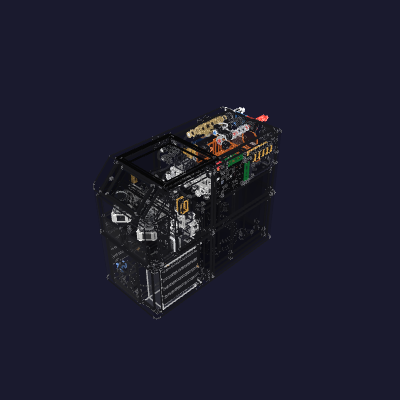
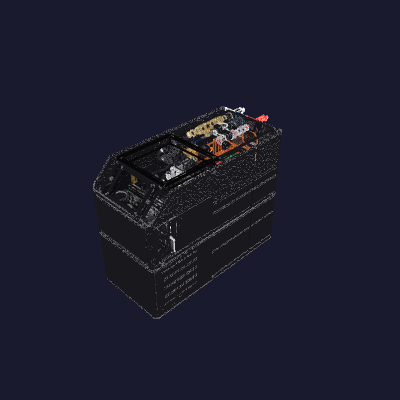
the cap grip keeps one wall and gives the hand the rest
The lower flank pocket keeps the enclosure's normal wall around each pump head instead of inheriting the deck's doubled backing. Its usable depth grows from 3.149 to 6.149 mm without moving the pumps, the ledge, the rail-bearing sill, or the cartridge envelope.

The service motion now names the recessed flank grip and its raked pulling ledge. Re-derived enclosure figures, assembly record, printed mass, BOM totals, and machine time follow the regenerated solid.

diff --git a/hardware/printed-parts/enclosure/enclosure/enclosure.py b/hardware/printed-parts/enclosure/enclosure/enclosure.py
@@ -1428,7 +1428,8 @@ cap_screw_off = 18.0         # each screw off the lane's own mid-depth, fore and
 grip_run = 24.0              # a grip's opening fore and aft — a finger's width and its curl
 grip_sill = 7.0              # block left under a grip, over the rail its edge strip bears on
 grip_head = 8.0              # and over it, under the ceiling the motor cans open through
-grip_back = 2.0 * wall       # section left between a grip's own floor and the pump's room
+grip_back = 2.0 * wall       # deck section between the grip floor and the pump's room
+grip_cap_back = wall         # cap section between its grip floor and the pump head's room
 grip_aft = wall              # and between its aft wall and the face that lands on the steel
 # THE LEDGE IS RAKED IN PLAN, ONE IN FIVE. It stands further FORE the further INBOARD it
 # runs, so the normal it presents to a fingertip carries a fifth of itself INBOARD: the
@@ -4500,11 +4501,13 @@ def _grip_storeys(pump_trays, z_floor, z_top):
             (crown, z_top, station + _tray.can_half + cap_pump_air))
 
 
-def _grip_back(edge, zf, zc, storeys):
+def _grip_back(edge, zf, zc, storeys, back_t):
     """The polyline a grip's own BACK stands on, (x, z) from the sill up, on the +X flank.
 
-    EACH STOREY'S FLOOR IS ONE `grip_back` OFF THE ROOM THE PUMP TAKES OVER IT, so the pocket
-    is as deep as that height allows and no deeper.
+    EACH STOREY'S FLOOR IS ONE `back_t` OFF THE ROOM THE PUMP TAKES OVER IT, so the pocket is
+    as deep as that piece's section allows and no deeper. The deck keeps `grip_back`; the cap
+    keeps `grip_cap_back`, because the pocket floor is an ordinary wall round the head rather
+    than the rail-bearing deck strip.
 
     AND IT WALKS OUT TO IT AT `relief_chamfer`. What stands between the pocket and the pump is
     a rib, and over a crown that rib moves inboard by the whole octagon-to-bore step. Ramped,
@@ -4515,7 +4518,7 @@ def _grip_back(edge, zf, zc, storeys):
         z_start, z_end = max(z0, zf), min(z1, zc)
         if z_end <= z_start:
             continue
-        back = x_room + grip_back
+        back = x_room + back_t
         if prev is None:
             pts.append((back, z_start))
         elif back <= prev:
@@ -4537,7 +4540,7 @@ def _grip_back(edge, zf, zc, storeys):
     return pts
 
 
-def _grip_section(edge, zf, zc, storeys, roofed):
+def _grip_section(edge, zf, zc, storeys, roofed, back_t):
     """One grip's own (x, z) section on the +X flank: the sill, the back (`_grip_back`), the
     ceiling, and the mouth.
 
@@ -4554,7 +4557,7 @@ def _grip_section(edge, zf, zc, storeys, roofed):
     The section runs one millimetre past the flank at both ends, so the cut opens through the
     face rather than landing on it."""
     over = 1.0
-    back = _grip_back(edge, zf, zc, storeys)
+    back = _grip_back(edge, zf, zc, storeys, back_t)
     x_top, z_top = back[-1]
     if not roofed:
         return ([(edge + over, zf)] + back
@@ -4570,7 +4573,7 @@ def _grip_section(edge, zf, zc, storeys, roofed):
 
 
 def _grip_bands(bay, pump_trays):
-    """The band each piece's own share of the pocket is struck in, as (zf, zc, roofed).
+    """Each piece's share of the pocket as (zf, zc, roofed, back_t).
 
     ONE POCKET, TWO PIECES, AND THE BLOCK BETWEEN THEM IS THE DECK'S BEARING STRIP. The deck's
     edge strips ride the bay's rails in the tray plate's own band over `cap_split_z`, so
@@ -4579,11 +4582,12 @@ def _grip_bands(bay, pump_trays):
     wall closes back in and a hand reaching into the opening cannot get to the piece at all.
 
     THE CAP'S BAND ENDS ON THE SPLIT, WHICH IS THE CAP'S OWN TOP FACE, so it takes no roof.
-    The deck's ends one `grip_head` under the ceiling the motor cans open through, with the
-    piece standing on above it, and takes one."""
+    Its floor keeps one ordinary `wall` round the pump head. The deck's ends one `grip_head`
+    under the ceiling the motor cans open through, with the piece standing on above it, and
+    takes one; its floor keeps the doubled section that continues the bearing strip."""
     split = cap_split_z(pump_trays)
-    return ((bay_storey_z(bay)[0], split, False),
-            (split + grip_sill, bay[2] - face_reveal - grip_head, True))
+    return ((bay_storey_z(bay)[0], split, False, grip_cap_back),
+            (split + grip_sill, bay[2] - face_reveal - grip_head, True, grip_back))
 
 
 def _flank_grip(bay, pump_trays, plate, band):
@@ -4607,14 +4611,14 @@ def _flank_grip(bay, pump_trays, plate, band):
     WHAT IT HANDS BACK IS CUT AND NEVER FUSED. A grip is depth taken out of the block, so
     nothing of either piece moves fore of the plane its face already stands on — the plane the
     bench reads flush for four barb tubes home in their collets."""
-    zf, zc, roofed = band
+    zf, zc, roofed, back_t = band
     over = 1.0
     edge = _cap_x_span(bay)[1]
     storeys = _grip_storeys(pump_trays, bay_floor_z(pump_trays)[1],
                             bay[2] - face_reveal)
     y1 = _block_aft(plate) - grip_aft
     y0 = y1 - grip_run
-    section = _grip_section(edge, zf, zc, storeys, roofed)
+    section = _grip_section(edge, zf, zc, storeys, roofed, back_t)
     x_deep = min(x for x, _z in section) - over
     reach = edge - x_deep
     if y0 - grip_rake * reach <= pump_relief_floor:
@@ -4648,14 +4652,16 @@ def grip_figures(box):
     y1 = _block_aft(plate) - grip_aft
     y0 = y1 - grip_run
     deep = edge - (storeys[-1][2] + grip_back)
+    cap_deep = edge - (storeys[0][2] + grip_cap_back)
     return {
         "GRIP_RISE": f"{deck_band[1] - deck_band[0]:.4g} mm",
         "GRIP_CAP_RISE": f"{cap_band[1] - cap_band[0]:.4g} mm",
         "GRIP_RUN": f"{grip_run:.4g} mm",
         "GRIP_DEEP": f"{deep:.4g} mm",
         "GRIP_SHALLOW": f"{edge - (storeys[1][2] + grip_back):.4g} mm",
-        "GRIP_CAP_DEEP": f"{edge - (storeys[0][2] + grip_back):.4g} mm",
+        "GRIP_CAP_DEEP": f"{cap_deep:.4g} mm",
         "GRIP_BACK": f"{grip_back:.4g} mm",
+        "GRIP_CAP_BACK": f"{grip_cap_back:.4g} mm",
         "GRIP_LEDGE": f"{y0:.4g} mm",
         "GRIP_TRAVEL": f"{y0 - (box.inner[2] + _column_along()):.4g} mm",
         "GRIP_RAKE": f"1 in {1.0 / grip_rake:.4g}",
@@ -5098,9 +5104,9 @@ def build_pump_cap(box, halves_cache=None):
 
     AND ITS TWO FLANKS CARRY THE LOWER BAND OF THE HAND'S OWN POCKET (`_flank_grip`), on the
     same ledge and the same aft wall the deck's band stands on. What the head leaves out there
-    is nine millimetres of flank and the pocket takes what `grip_back` does not: the piece
-    comes out screwed to the cartridge and a hand pulling the assembly finds relief at both
-    storeys. Printed on its Z− face, the same pose the cartridge takes."""
+    is nine millimetres of flank and the pocket keeps one `grip_cap_back` wall round the head:
+    the piece comes out screwed to the cartridge and a hand pulling the assembly finds relief
+    at both storeys. Printed on its Z− face, the same pose the cartridge takes."""
     inner, plate = box.inner, box.collet_plate
     solid = _cartridge_gross(box, halves_cache).intersect(_cap_room(box))
     split = cap_split_z(box.pump_trays)

diff --git a/hardware/ledger/bom.md b/hardware/ledger/bom.md
@@ -138,9 +138,9 @@ The wetted surface is the print itself, qualified by [`wetted-surface-test.md`](
 | Flavor reservoir cap — left | 1 | PETG (translucent) | 0.058 | $0.65 <!--@printed--> |
 | Flavor reservoir cap — right | 1 | PETG (translucent) | 0.058 | $0.65 <!--@printed--> |
 | Enclosure — front bottom + front top (two quadrants) | 1 set | PETG | 2.760 | $30.91 <!--@printed--> |
-| Enclosure — pump cartridge + cap (one set) | 1 set | PETG | 1.001 | $11.21 <!--@printed--> |
+| Enclosure — pump cartridge + cap (one set) | 1 set | PETG | 0.993 | $11.13 <!--@printed--> |
 | Carbonator reed bridge | 1 | PETG | 0.008 | $0.09 <!--@printed--> |
-| Enclosure — back bottom + back top (two quadrants) | 1 set | PETG | 2.348 | $26.30 <!--@printed--> |
+| Enclosure — back bottom + back top (two quadrants) | 1 set | PETG | 2.360 | $26.43 <!--@printed--> |
 | Enclosure — ceiling panel | 1 | PETG | 0.148 | $1.66 <!--@printed--> |
 | Display cover plate | 1 | PETG | 0.028 | $0.31 <!--@printed--> |
 | Port ring — one per rear-wall crossing | 5 | PETG (blue, white, red, black ×2) | 0.012 | $0.14 <!--@printed--> |
@@ -150,9 +150,9 @@ The wetted surface is the print itself, qualified by [`wetted-surface-test.md`](
 | Fuse clamp | 1 | PETG | 0.007 | $0.08 <!--@printed--> |
 | Faucet touch-flo shell (3-piece: bottom + middle + top) | 1 | PET-CF | 0.150 | $5.92 <!--@printed--> |
 | Faucet mounting plate | 1 | PET-CF | 0.013 | $0.53 <!--@printed--> |
-| **Printed parts total** | | | **~9.43** | **[$110.19](BOM_SEC7)** |
+| **Printed parts total** | | | **~9.43** | **[$110.24](BOM_SEC7)** |
 
-By material: PETG ≈ 9.26 kg / $103.73 — of which the four translucent reservoir parts are ≈ 0.88 kg / $9.85 — and PET-CF ≈ 0.16 kg / $6.44.
+By material: PETG ≈ 9.27 kg / $103.78 — of which the four translucent reservoir parts are ≈ 0.88 kg / $9.85 — and PET-CF ≈ 0.16 kg / $6.44.
 
 Each cap lid ships bolted to its cap. It is the pour clamp at [`cold-core.md`](/hardware/assembly/cold-core.md) step 3 and stays: the six M3 × 25 SHCS per face pass through lid and cap into the shell-face inserts, the CO2 line enters through the top lid's tube hole, and the top lid's outer face is the plane the whole water deck and the power column stand on. The top lid also carries the [3](CAP_CRADLES) valve cradles — four bosses printed into that face per valve that stands on it (`_cold_core_interface.cap_cradles`, [`valve-seat/`](/hardware/printed-parts/valve-seat/)) — which is why it outweighs the bottom one. The cradles are a press fit and take no screw. The top cap under it carries the [4](DECK_INSERTS) deck-mount columns, which are the cap's rotation key and the water pump's own bolt pattern: its bracket bolts down into all [4](PUMP_MOUNT_SCREWS).
 
@@ -296,7 +296,7 @@ Per-appliance tools that ship in the install kit so the field installer can cut 
 | 4. CO2 subsystem | [$96.56](BOM_SEC4) |
 | 5. Refrigeration | [$142.25](BOM_SEC5) |
 | 6. Cold core insulation | [$15.62](BOM_SEC6) |
-| 7. Printed parts (PETG + PET-CF) | [$110.19](BOM_SEC7) |
+| 7. Printed parts (PETG + PET-CF) | [$110.24](BOM_SEC7) |
 | 8. Flavor subsystem | [$207.33](BOM_SEC8) |
 | 9. Dispensing | [$60.29](BOM_SEC9) |
 | 10. UI | [$0.00](BOM_SEC10) |
@@ -304,7 +304,7 @@ Per-appliance tools that ship in the install kit so the field installer can cut 
 | 12. Level sensing | [$37.50](BOM_SEC12) |
 | 13. Mechanical attach hardware + reservoir-cap vent filter | [$12.15](BOM_SEC13) |
 | 14. Install kit | [$4.29](BOM_SEC14) |
-| **Total** | **[$1,324.68](BOM_GRAND)** |
+| **Total** | **[$1,324.73](BOM_GRAND)** |
 
 ## External / user-supplied (not shipped)
 

diff --git a/hardware/printed-parts/enclosure/enclosure/README.md b/hardware/printed-parts/enclosure/enclosure/README.md
@@ -818,7 +818,7 @@ cartridge is home. `pump-cap-stops-on-plate` reads the area standing against the
 and that the kiss itself is air.
 
 **Its two flanks carry the lower band of the hand's own pocket**, on the same ledge and
-the same aft wall the cartridge's band stands on — [3.149 mm](GRIP_CAP_DEEP) of relief
+the same aft wall the cartridge's band stands on — [6.149 mm](GRIP_CAP_DEEP) of relief
 over [40.65 mm](GRIP_CAP_RISE) of height, which is what the head leaves out there. The
 piece comes out screwed to the cartridge and a hand on the assembly finds relief at both
 storeys; the whole figure is under [Pump trays](#pump-trays) below.
@@ -989,14 +989,15 @@ wall in both, so the two pieces a hand takes out together present it one face.
 
 **It goes as deep as the pump leaves it, storey by storey.** Under the split the head's
 own square reaches `pump_tray.head_half` and one `cap_pump_air` off the axis, and the
-cap's pocket is [3.149 mm](GRIP_CAP_DEEP) — nine millimetres of flank stand out there and
+cap's pocket is [6.149 mm](GRIP_CAP_DEEP) — nine millimetres of flank stand out there and
 that is what they come to. Over the split the boss's octagon reaches `boss_half` and the
 pocket is [8.354 mm](GRIP_SHALLOW); over the crown the bore reaches `can_half` and one
-`cap_pump_air`, and it is [15.95 mm](GRIP_DEEP). One [6 mm](GRIP_BACK) rib stands between
-a pocket's floor and the pump's room at every one of the three. Between the boss and the
-can it **walks out at `relief_chamfer`**: over a crown that rib moves inboard by the whole
-octagon-to-bore step, and ramped, the first layer over the crown still lands on the rim
-the layer under it keeps.
+`cap_pump_air`, and it is [15.95 mm](GRIP_DEEP). The deck keeps a [6 mm](GRIP_BACK) rib
+between its pocket floor and the boss/can room. The cap keeps one [3 mm](GRIP_CAP_BACK)
+wall between its pocket floor and the head room, leaving the rest of that flank to the hand.
+Between the boss and the can the deck pocket **walks out at `relief_chamfer`**: over a crown
+that rib moves inboard by the whole octagon-to-bore step, and ramped, the first layer over
+the crown still lands on the rim the layer under it keeps.
 
 **The ledge is raked in plan, [1 in 5](GRIP_RAKE)** (`grip_rake`) — standing further fore
 the further inboard it runs, [3.191 mm](GRIP_RAKE_FORE) of fall across the deepest pocket.

diff --git a/hardware/ledger/machine-time.md b/hardware/ledger/machine-time.md
@@ -23,11 +23,11 @@ Masses come from bom.md §7, which is geometry-derived and commit-gated, so a pr
 | Group | Parts | Rate | Mass | Hours |
 |---|---|---|---:|---:|
 | Bulk PETG, 0.8 nozzle | Cold-core shell, four foam-cap pieces | [10.8](MT_RATE_BULK) h/kg — **measured** | [1.963](MT_KG_BULK) kg | [21.2](MT_H_BULK) |
-| Enclosure exterior PETG, 0.4 High Flow | The four quadrants, the pump cartridge and its cap — the show surfaces, printed at the finish the box is judged on ([enclosure/print-log.md](/hardware/printed-parts/enclosure/enclosure/print-log.md)) | [9.1](MT_RATE_EXT) h/kg — **measured** | [6.257](MT_KG_EXT) kg | [56.9](MT_H_EXT) |
+| Enclosure exterior PETG, 0.4 High Flow | The four quadrants, the pump cartridge and its cap — the show surfaces, printed at the finish the box is judged on ([enclosure/print-log.md](/hardware/printed-parts/enclosure/enclosure/print-log.md)) | [9.1](MT_RATE_EXT) h/kg — **measured** | [6.261](MT_KG_EXT) kg | [57.0](MT_H_EXT) |
 | Watertight translucent PETG, 0.6 nozzle | Both reservoir bodies + caps — 3 mm walls as 5 × 0.60 mm beads, Arachne, for a syrup-tight wall ([watertight-petg.md](/hardware/printed-parts/cold-core/reservoir/watertight-petg.md)); the nozzle is the one all three logged runs were made on ([reservoir/print-log.md](/hardware/printed-parts/cold-core/reservoir/print-log.md)) | [22](MT_RATE_TIGHT) h/kg — est., ~½ the bulk volumetric rate | [0.880](MT_KG_TIGHT) kg | [19.4](MT_H_TIGHT) |
 | Small PETG parts | Drip pan, plug stack, PRV shroud, reed bridge, fuse clamp | [30](MT_RATE_SMALL) h/kg — est., travel and layer-change overhead dominate a small part | [0.161](MT_KG_SMALL) kg | [4.8](MT_H_SMALL) |
 | PET-CF, 0.4 nozzle | Faucet touch-flo shell + mounting plate — fine layers, 50 °C chamber, hardened nozzle | [60](MT_RATE_PETCF) h/kg — est. | [0.163](MT_KG_PETCF) kg | [9.8](MT_H_PETCF) |
-| **Printer time per unit** | | | **[9.424](MT_KG)** kg | **[112.1](MT_H_PRINT)** |
+| **Printer time per unit** | | | **[9.428](MT_KG)** kg | **[112.1](MT_H_PRINT)** |
 
 Spread across [2](MT_PRINTERS) machines that is **[56.1](MT_H_PRINT_WALL) hours** of wall clock, and it is the longest pole in the build by an order of magnitude.
 

diff --git a/hardware/ledger/build-time.md b/hardware/ledger/build-time.md
@@ -14,7 +14,7 @@ Seconds somebody waits for a generator to finish. The fourth ledger beside [bom.
 |---|---|---:|
 | [`assembly/cards/_build.py`](/hardware/assembly/cards/_build.py) | every build card, and the deck they print as | [176](BT_BUILD) |
 | [`assembly/scenes/render_scenes.py`](/hardware/assembly/scenes/render_scenes.py) | every card's picture, off the placed machine | [7.6](BT_RENDER_SCENES) |
-| [`manifold-layout/enclosure_assembly.py`](/hardware/manifold-layout/enclosure_assembly.py) | the placed machine — every body in the box | [99](BT_ENCLOSURE_ASSEMBLY) |
+| [`manifold-layout/enclosure_assembly.py`](/hardware/manifold-layout/enclosure_assembly.py) | the placed machine — every body in the box | [81](BT_ENCLOSURE_ASSEMBLY) |
 | [`printed-parts/enclosure/enclosure/enclosure.py`](/hardware/printed-parts/enclosure/enclosure/enclosure.py) | the box, in its printable pieces | [110](BT_ENCLOSURE) |
 | [`faucet-layout/faucet_assembly.py`](/hardware/faucet-layout/faucet_assembly.py) | the faucet stack on its counter | [18](BT_FAUCET_ASSEMBLY) |
 | [`manifold-layout/manifold_layout.py`](/hardware/manifold-layout/manifold_layout.py) | the fittings and the runs between them | [13](BT_MANIFOLD_LAYOUT) |

diff --git a/hardware/service/pump-replacement.md b/hardware/service/pump-replacement.md
@@ -116,7 +116,8 @@ States"; this doc names the order they run in.
 **1. Run dry mode.** Vessel under the faucet — states 2 and 4 send a slug of air and residual
 syrup out the gooseneck.
 
-**2. Pull the cartridge.** One hand flat on the face, the other braced on the box. Draw it
+**2. Pull the cartridge.** Hook the pulling hand into either recessed flank grip and brace
+the box with the other hand. Pull on the grip's raked fore ledge and draw the cartridge
 straight forward along the bay floor it rides: the [4](JOINT_COUNT_2) joints let go
 against the plate in the first few millimetres, and the rest of the stroke is the deck coming
 out of the bay. Pull the two DC-5 spade pairs off the motor tabs and set the cartridge
